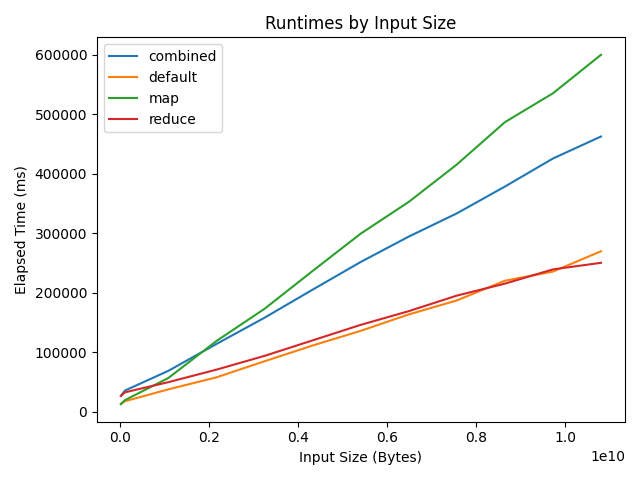
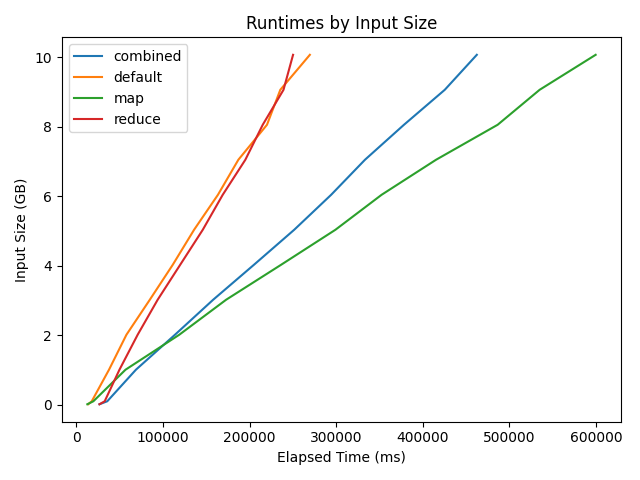
update runtime visualization to scale input size to GB and adjust plot labels

diff --git a/output/visualize.py b/output/visualize.py
@@ -295,12 +295,15 @@ def plot_runtimes():
     for file in files:
         with open(file, 'r') as f:
             data = json.load(f)
-            x = [d['x'] for d in data]
-            y = [d['y'] for d in data]
-            plt.plot(x, y, label=file.replace('.json', '').replace('stats_', ''))
+            x = [d['x'] for d in data] # input size
+            y = [d['y'] for d in data] # elapsed time
 
-    plt.xlabel('Input Size (Bytes)')
-    plt.ylabel('Elapsed Time (ms)')
+            # scale x to GB
+            x = [value / 1_073_741_824 for value in x]
+            plt.plot(y, x, label=file.replace('.json', '').replace('stats_', ''))
+
+    plt.ylabel('Input Size (GB)')
+    plt.xlabel('Elapsed Time (ms)')
     plt.title('Runtimes by Input Size')
     plt.legend()
     plt.tight_layout()
@@ -312,7 +315,7 @@ def plot_runtimes():
 
 # print("Top 10 words")
 # plot_top_10()
-plot_top_10_in_one()
+# plot_top_10_in_one()
 
 # print("Zipf plot")
 # plot_zipf()
@@ -322,7 +325,7 @@ plot_top_10_in_one()
 
 # print("Frequency Histogram")
 # plot_frequency_histogram()
-plot_frequency_histogram_in_one()
+# plot_frequency_histogram_in_one()
 
 # print("CDF")
 # plot_cdf()
@@ -332,5 +335,5 @@ plot_frequency_histogram_in_one()
 # plot_total_words_by_elapsed_time()
 # plot_total_keys_by_elapsed_time()
 
-# print("Runtimes")
-# plot_runtimes()
+print("Runtimes")
+plot_runtimes()
